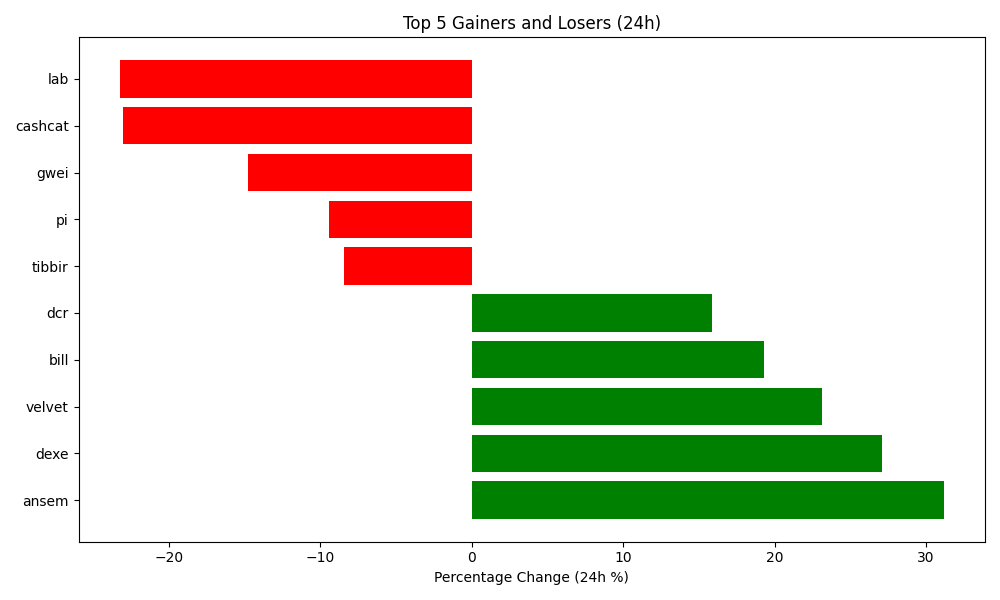
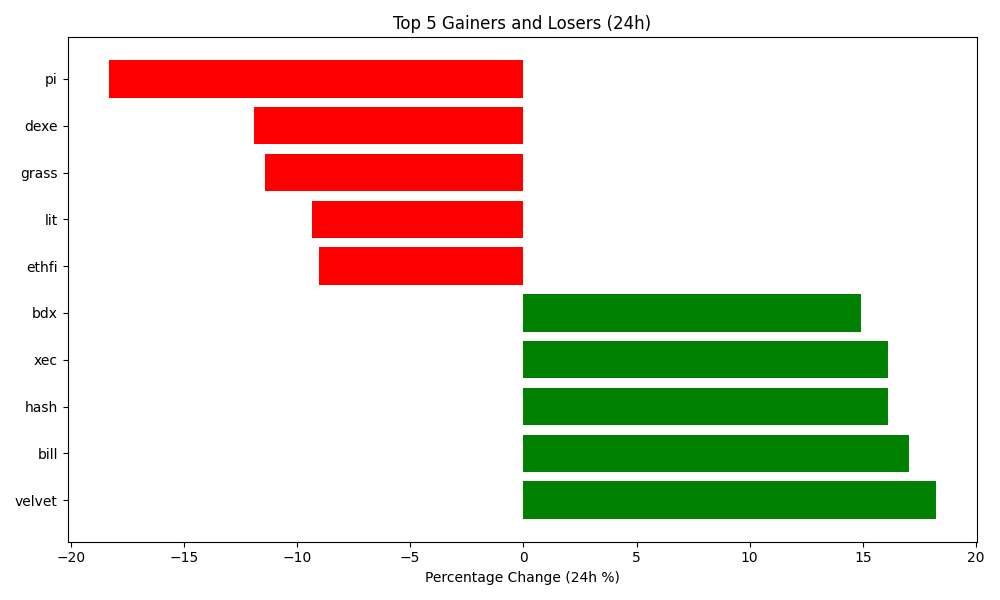
Auto-update crypto data and plot

diff --git a/README.md b/README.md
@@ -4,7 +4,7 @@ Author: Hitesh Agrawal
 This repository automatically tracks the top 5 gaining, top 5 losing, and top 5 highest volume cryptocurrencies in the last 24 hours using the CoinGecko API, Python, Matplotlib, and GitHub Actions updates the below content everyday at midnight.
 
 <!-- START_DYNAMIC_CONTENT -->
-Last updated: 2026-07-13 02:03 UTC
+Last updated: 2026-07-14 01:49 UTC
 
 ![Crypto Movers Plot](crypto_movers_plot.png)
 
@@ -12,33 +12,33 @@ Last updated: 2026-07-13 02:03 UTC
 
 | Rank | Coin | Price Change (24h %) | Volume (USD) | Current Price (USD) |
 | :--: | :--: | :------------------: | :----------: | :-----------------: |
-| 1 | ansem | 31.18% | $36,663,060 | $0.2682 |
-| 2 | dexe | 27.10% | $148,775,580 | $48.5000 |
-| 3 | velvet | 23.11% | $18,750,837 | $0.5260 |
-| 4 | bill | 19.30% | $25,205,229 | $0.0507 |
-| 5 | dcr | 15.85% | $6,661,145 | $12.9300 |
+| 1 | velvet | 18.23% | $22,664,778 | $0.6120 |
+| 2 | bill | 17.05% | $35,109,709 | $0.0606 |
+| 3 | hash | 16.12% | $53,341 | $0.0095 |
+| 4 | xec | 16.11% | $103,302,018 | $0.0000 |
+| 5 | bdx | 14.91% | $11,287,757 | $0.0964 |
 
 
 **👇 Top 5 Losers (24h)**
 
 | Rank | Coin | Price Change (24h %) | Volume (USD) | Current Price (USD) |
 | :--: | :--: | :------------------: | :----------: | :-----------------: |
-| 1 | lab | -23.25% | $75,923,792 | $0.4187 |
-| 2 | cashcat | -23.03% | $50,846,109 | $0.1668 |
-| 3 | gwei | -14.78% | $7,833,294 | $0.0552 |
-| 4 | pi | -9.42% | $11,860,964 | $0.0885 |
-| 5 | tibbir | -8.46% | $1,012,951 | $0.1198 |
+| 1 | pi | -18.31% | $33,819,230 | $0.0732 |
+| 2 | dexe | -11.89% | $93,054,730 | $42.7600 |
+| 3 | grass | -11.40% | $21,764,991 | $0.3570 |
+| 4 | lit | -9.32% | $82,513,603 | $2.4100 |
+| 5 | ethfi | -9.05% | $32,830,578 | $0.3838 |
 
 
 **💎 Top 5 by Trade Volume (24h)**
 
 | Rank | Coin | Price Change (24h %) | Volume (USD) | Current Price (USD) |
 | :--: | :--: | :------------------: | :----------: | :-----------------: |
-| 1 | usdt | -0.00% | $29,295,030,316 | $0.9993 |
-| 2 | btc | -1.13% | $19,102,408,228 | $63,316.0000 |
-| 3 | eth | 0.04% | $6,268,927,366 | $1,803.7800 |
-| 4 | usdc | -0.01% | $6,227,003,107 | $0.9997 |
-| 5 | sol | -0.62% | $1,262,641,943 | $76.2800 |
+| 1 | usdt | -0.05% | $44,698,267,304 | $0.9988 |
+| 2 | btc | -1.80% | $29,772,754,504 | $62,425.0000 |
+| 3 | usdc | 0.01% | $12,483,535,855 | $0.9998 |
+| 4 | eth | -1.64% | $10,163,324,304 | $1,782.9500 |
+| 5 | sol | -2.12% | $1,690,312,258 | $75.1900 |
 
 
 <!-- END_DYNAMIC_CONTENT -->
